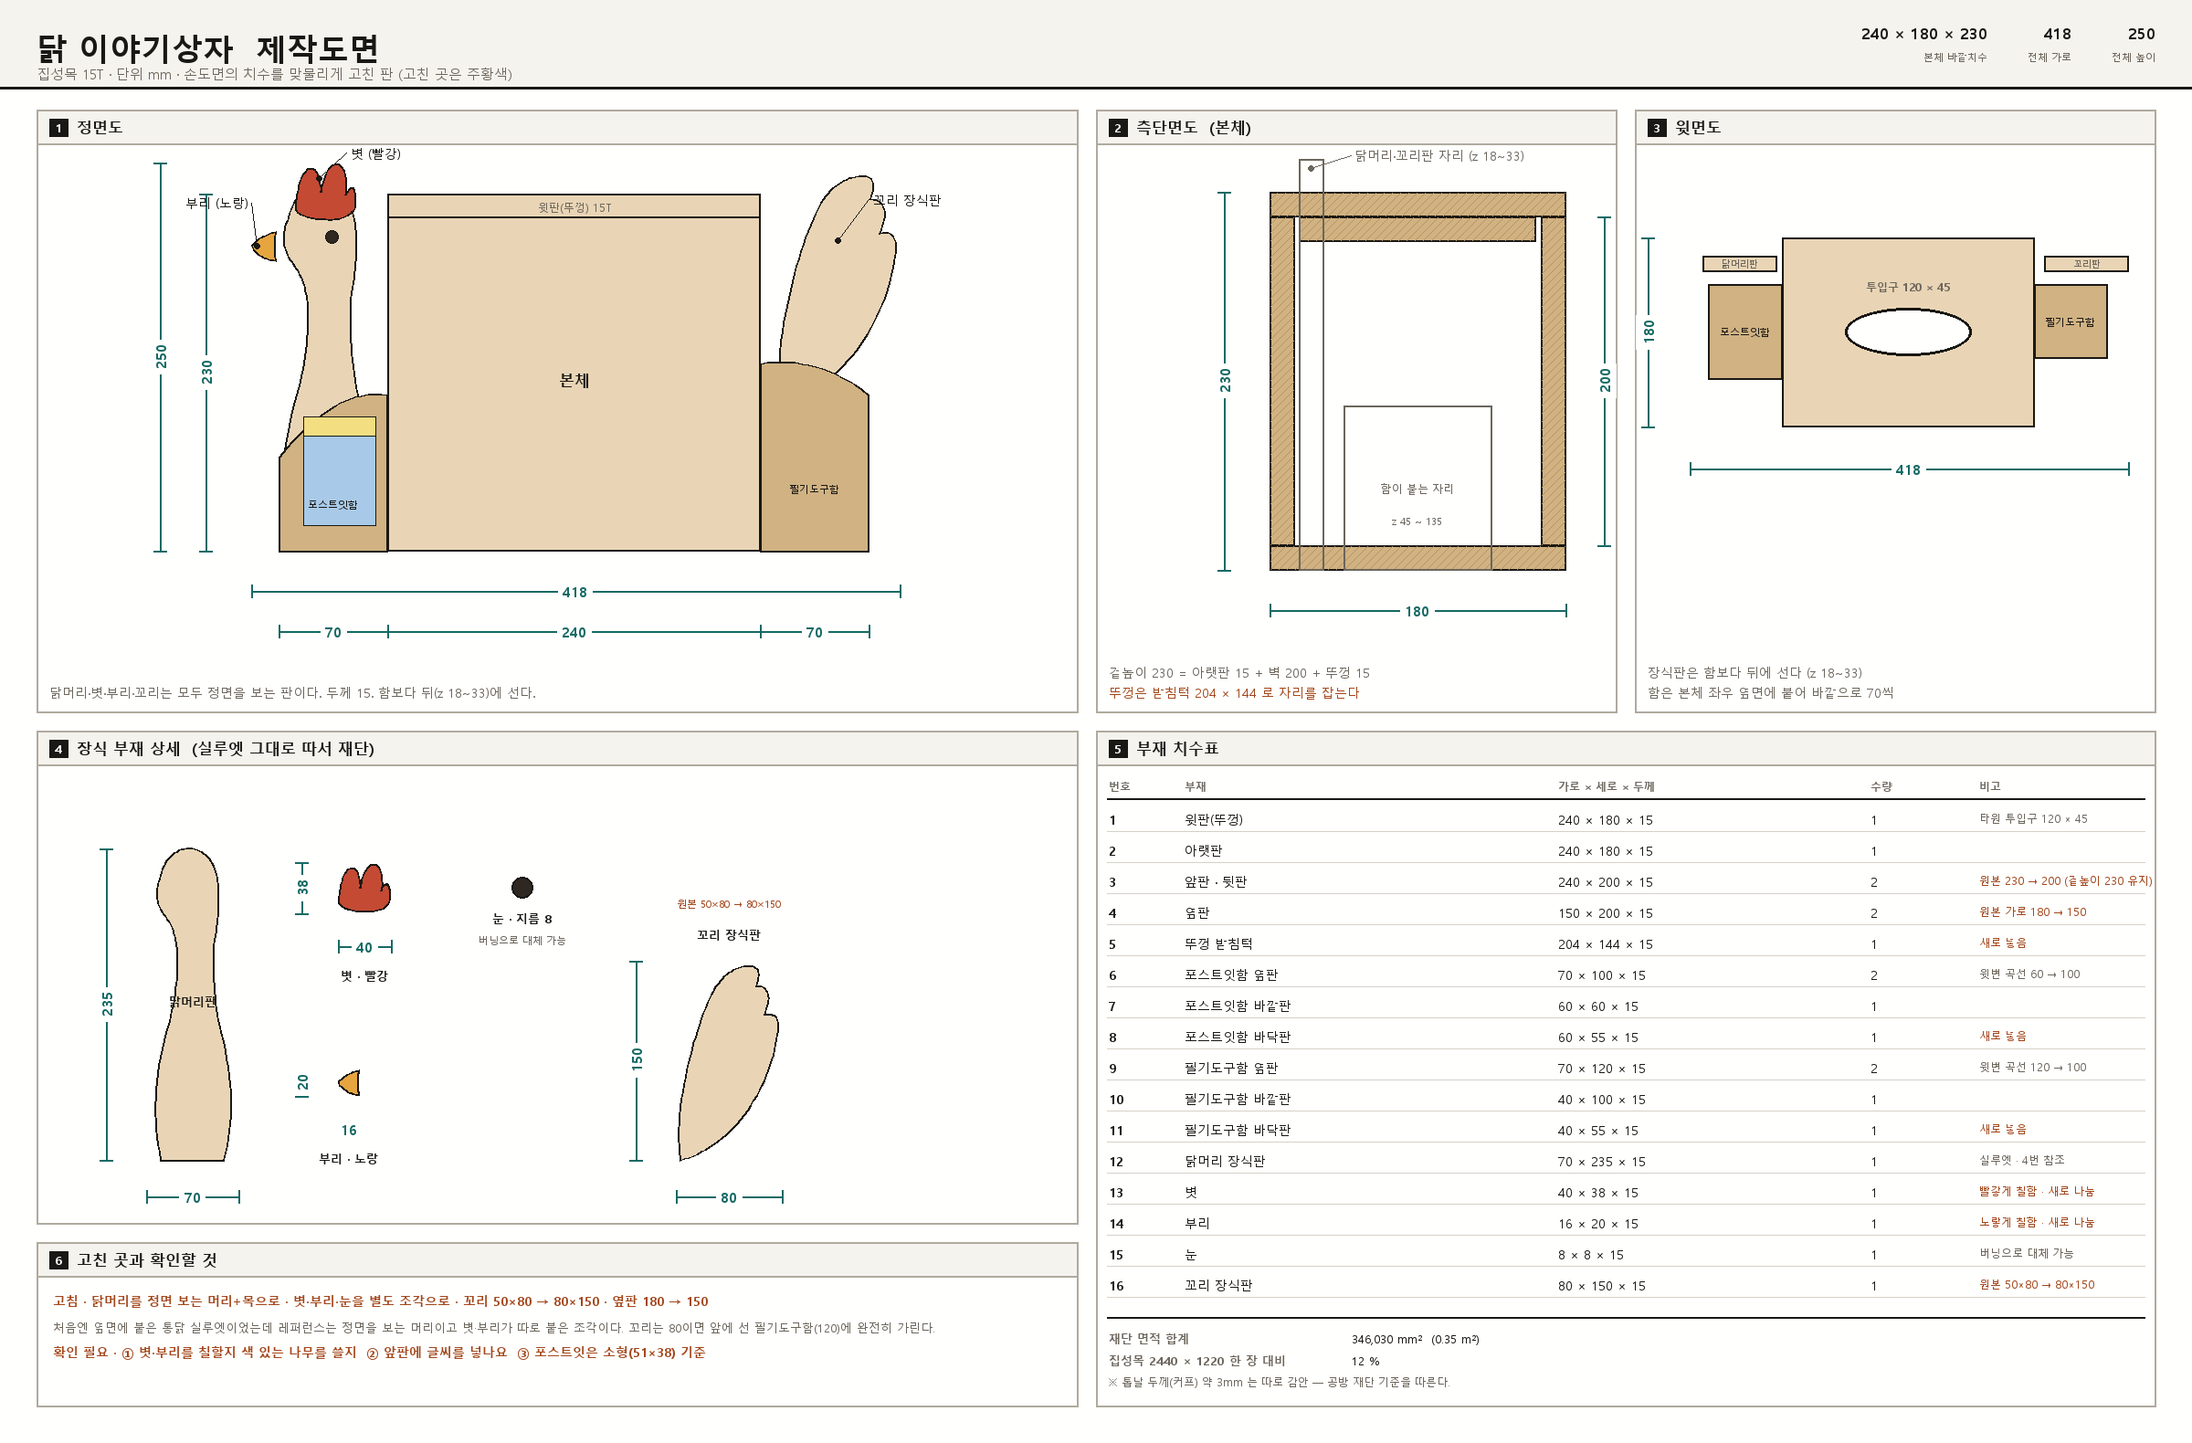
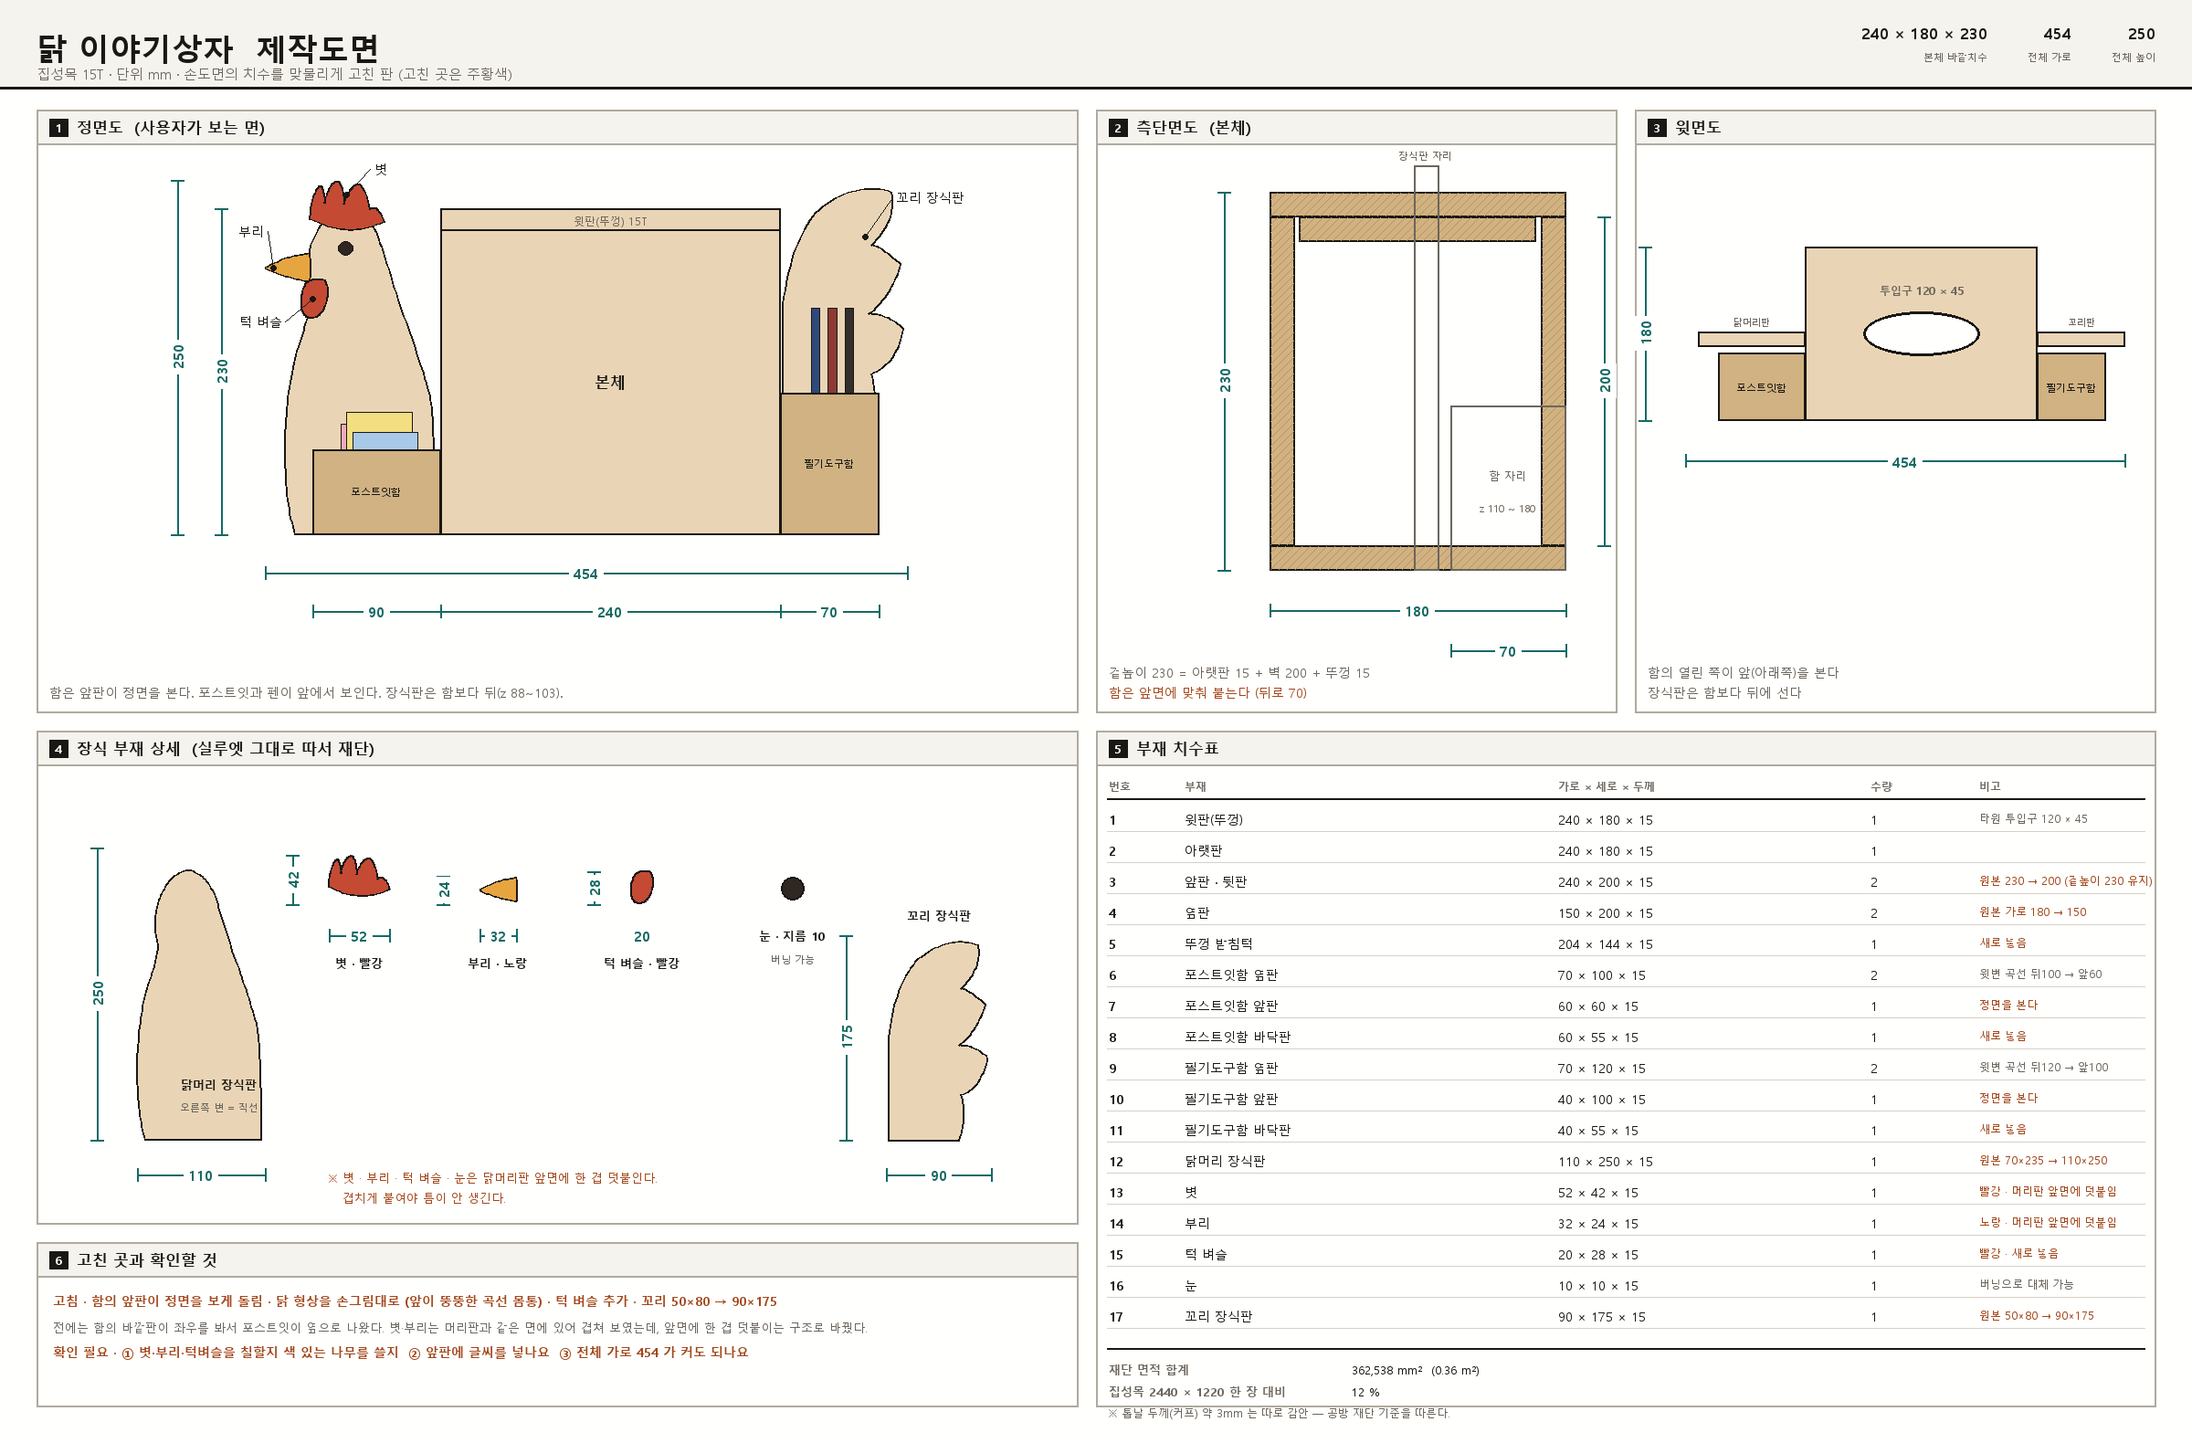
Add files via upload

diff --git a/index.html b/index.html
@@ -352,47 +352,53 @@ function modelB(){
   p({id:6, g:"뚜껑", n:"뚜껑 받침턱", cut:"204 × 144", q:1, x:18, y:H-2*T, z:18, w:204, h:T, d:144,
      chg:"새로 넣음 — 뚜껑이 안 밀리게"});
 
-  /* 포스트잇함 : 본체 왼쪽 옆면에 붙어 바깥으로 70 */
-  p({id:7, g:"포스트잇함", n:"포스트잇함 옆판", cut:"70 × 60~100", q:2, x:-70, y:0, z:45,  w:70, h:100, d:T, curve:[60,100]});
-  p({id:7, g:"포스트잇함", n:"포스트잇함 옆판", cut:"70 × 60~100", q:0, x:-70, y:0, z:120, w:70, h:100, d:T, curve:[60,100]});
-  p({id:8, g:"포스트잇함", n:"포스트잇함 바깥판", cut:"60 × 60", q:1, x:-70, y:0, z:60, w:T,    h:60, d:60});
-  p({id:9, g:"포스트잇함", n:"포스트잇함 바닥판", cut:"60 × 55", q:1, x:-55, y:0, z:60, w:70-T, h:T,  d:60, chg:"새로 넣음"});
-  [[68,80,"note1"],[78,86,"note2"],[88,74,"note3"]].forEach(function(s){
-    p({id:0, g:"포스트잇함", n:"포스트잇", cut:"", q:0, x:-54, y:16, z:s[0], w:46, h:s[1], d:7,
+  /* 포스트잇함 : 본체 왼쪽에 붙되 **바깥판이 정면(사용자 쪽)을 본다**.
+     옆판 두 장이 좌우 벽, 앞판이 앞을 막는다. 깊이 70 은 앞면에 맞춰 z 110~180 */
+  p({id:7, g:"포스트잇함", n:"포스트잇함 옆판", cut:"70 × 60~100", q:2, x:-90, y:0, z:110, w:T, h:100, d:70, curve:[100,60]});
+  p({id:7, g:"포스트잇함", n:"포스트잇함 옆판", cut:"70 × 60~100", q:0, x:-15, y:0, z:110, w:T, h:100, d:70, curve:[100,60]});
+  p({id:8, g:"포스트잇함", n:"포스트잇함 앞판", cut:"60 × 60", q:1, x:-75, y:0, z:D-T, w:60, h:60, d:T,
+     chg:"바깥판 → 앞판. 정면을 보게 돌림"});
+  p({id:9, g:"포스트잇함", n:"포스트잇함 바닥판", cut:"60 × 55", q:1, x:-75, y:0, z:110, w:60, h:T, d:55, chg:"새로 넣음"});
+  [[122,78,"note1"],[136,86,"note2"],[150,72,"note3"]].forEach(function(s){
+    p({id:0, g:"포스트잇함", n:"포스트잇", cut:"", q:0, x:-70, y:16, z:s[0], w:50, h:s[1], d:9,
        r:2, col:COL[s[2]], decor:true, sub:"참고용 · 부재 아님"});
   });
 
-  /* 필기도구함 : 본체 오른쪽 옆면에 붙어 바깥으로 70 */
-  p({id:10,g:"필기도구함", n:"필기도구함 옆판", cut:"70 × 100~120", q:2, x:W, y:0, z:45,  w:70, h:120, d:T, curve:[120,100]});
-  p({id:10,g:"필기도구함", n:"필기도구함 옆판", cut:"70 × 100~120", q:0, x:W, y:0, z:100, w:70, h:120, d:T, curve:[120,100]});
-  p({id:11,g:"필기도구함", n:"필기도구함 바깥판", cut:"40 × 100", q:1, x:W+70-T, y:0, z:60, w:T,    h:100, d:40});
-  p({id:12,g:"필기도구함", n:"필기도구함 바닥판", cut:"40 × 55",  q:1, x:W,      y:0, z:60, w:70-T, h:T,   d:40, chg:"새로 넣음"});
-  [[255,72,"pen1"],[272,66,"pen2"],[288,80,"pen3"]].forEach(function(s){
+  /* 필기도구함 : 오른쪽. 마찬가지로 앞판이 정면을 본다 */
+  p({id:10,g:"필기도구함", n:"필기도구함 옆판", cut:"70 × 100~120", q:2, x:W,     y:0, z:110, w:T, h:120, d:70, curve:[120,100]});
+  p({id:10,g:"필기도구함", n:"필기도구함 옆판", cut:"70 × 100~120", q:0, x:W+55,  y:0, z:110, w:T, h:120, d:70, curve:[120,100]});
+  p({id:11,g:"필기도구함", n:"필기도구함 앞판", cut:"40 × 100", q:1, x:W+T, y:0, z:D-T, w:40, h:100, d:T,
+     chg:"바깥판 → 앞판. 정면을 보게 돌림"});
+  p({id:12,g:"필기도구함", n:"필기도구함 바닥판", cut:"40 × 55", q:1, x:W+T, y:0, z:110, w:40, h:T, d:55, chg:"새로 넣음"});
+  [[262,128,"pen1"],[274,146,"pen2"],[286,134,"pen3"]].forEach(function(s){
     p({id:0, g:"필기도구함", n:"펜", cut:"", q:0, x:s[0], y:15, z:s[1], cyl:[4,150], col:COL[s[2]], decor:true, sub:"참고용 · 부재 아님"});
   });
 
-  /* 닭머리 장식 : 정면을 보는 판. 함 뒤쪽(z 18~33)에 서서 머리가 위로 솟는다 */
-  p({id:13,g:"닭머리 장식", n:"닭머리 장식판", cut:"70 × 235", q:1, x:-75, y:0,   z:18, w:70, h:235, d:T, silh:"head"});
-  p({id:14,g:"닭머리 장식", n:"볏",   cut:"40 × 38", q:1, x:-60, y:212, z:18, w:40, h:38, d:T, silh:"comb", col:COL.comb, chg:"새로 나눔 — 빨갛게 칠함"});
-  p({id:15,g:"닭머리 장식", n:"부리", cut:"16 × 20", q:1, x:-88, y:186, z:18, w:16, h:20, d:T, silh:"beak", col:COL.beak, chg:"새로 나눔"});
-  p({id:16,g:"닭머리 장식", n:"눈",   cut:"지름 8",  q:1, x:-40, y:198, z:16, w:8,  h:8,  d:T+4, silh:"eye", col:COL.eye, sub:"버닝으로 대체 가능"});
+  /* 닭머리 장식 : 정면을 보는 판. 함보다 뒤(z 88~103)에 서고 볏·부리·벼슬은 그 앞면에 덧붙인다 */
+  p({id:13,g:"닭머리 장식", n:"닭머리 장식판", cut:"110 × 250", q:1, x:-110, y:0, z:88, w:110, h:250, d:T,
+     silh:"head", chg:"70×235 → 110×250 · 앞이 뚱뚱한 곡선 몸통으로"});
+  p({id:14,g:"닭머리 장식", n:"볏",       cut:"52 × 42", q:1, x:-92,  y:208, z:103, w:52, h:42, d:T, silh:"comb",   col:COL.comb, sub:"머리 앞면에 덧붙임"});
+  p({id:15,g:"닭머리 장식", n:"부리",     cut:"32 × 24", q:1, x:-124, y:176, z:103, w:32, h:24, d:T, silh:"beak",   col:COL.beak, sub:"머리 앞면에 덧붙임"});
+  p({id:16,g:"닭머리 장식", n:"턱 벼슬",  cut:"20 × 28", q:1, x:-99, y:152, z:103, w:20, h:28, d:T, silh:"wattle", col:COL.comb, chg:"새로 넣음"});
+  p({id:17,g:"닭머리 장식", n:"눈",       cut:"지름 10", q:1, x:-72, y:197, z:118, w:10, h:10, d:8, silh:"eye", col:COL.eye, sub:"버닝으로 대체 가능"});
 
   /* 꼬리 장식 */
-  p({id:17,g:"꼬리 장식", n:"꼬리 장식판", cut:"80 × 150", q:1, x:250, y:95, z:18, w:80, h:150, d:T, silh:"tail",
-     chg:"50×80 → 80×150 · 위치도 위로"});
+  p({id:18,g:"꼬리 장식", n:"꼬리 장식판", cut:"90 × 175", q:1, x:W, y:75, z:88, w:90, h:175, d:T, silh:"tail",
+     chg:"50×80 → 90×175 · 손그림 모양으로"});
 
   return { key:"B", title:"닭 이야기상자", parts:P, W:W, H:H, D:D,
     dims:[["본체 가로",W],["본체 높이",H],["본체 깊이",D]],
-    span:[-88, 330], top:250,
+    span:[-124, 330], top:250,
     groups:{ "프레임":[0,0,0,0], "뚜껑":[0,1,0,125], "포스트잇함":[-1,0,0,135],
              "필기도구함":[1,0,0,135], "닭머리 장식":[-0.5,0.15,-1,140], "꼬리 장식":[0.5,0.15,-1,140] },
     fixes:[
-      ["고침","<b>닭머리를 정면 보게 다시 만들었습니다.</b> 처음엔 옆면에 붙은 통닭 실루엣이었는데, 레퍼런스는 <b>정면을 보는 머리+목</b>이고 볏·부리가 따로 붙은 조각입니다."],
-      ["고침","<b>볏·부리·눈을 별도 조각으로 나눴습니다.</b> 볏은 빨강, 부리는 노랑. 레퍼런스와 같은 방식입니다."],
-      ["고침","<b>꼬리 50×80 → 80×150, 붙이는 높이도 위로.</b> 80으로는 앞에 선 필기도구함(120)에 완전히 가려서 안 보입니다."],
-      ["고침","<b>옆판 가로 180 → 150.</b> 앞·뒷판 240과 옆판 180으로 네 벽을 짜면 겉이 240×210이 되는데 윗·아랫판은 240×180이었습니다."],
-      ["고침","<b>뚜껑 받침턱과 함 바닥판 2장을 새로 넣었습니다.</b> 없으면 뚜껑이 밀리고 함 바닥이 뚫립니다."],
-      ["유지","본체 <span class='num'>240 × 180 × 230</span>, 타원 투입구 <span class='num'>120 × 45</span>, 함 치수, 닭머리 높이 <span class='num'>250</span> 은 손도면 그대로입니다."]
+      ["고침","<b>함의 앞판이 정면(사용자 쪽)을 보게 돌렸습니다.</b> 전에는 바깥판이 좌우를 보고 있었습니다. 이제 포스트잇과 펜이 앞에서 보입니다."],
+      ["고침","<b>닭 형상을 손그림대로 다시 만들었습니다.</b> 앞(왼쪽)이 뚱뚱한 곡선 몸통, 오른쪽 변은 상자에 닿는 직선."],
+      ["고침","<b>턱 아래 벼슬(육수)을 넣었습니다.</b> 빠져 있었습니다."],
+      ["고침","<b>볏·부리가 머리와 겹쳐 보이던 것</b>을 고쳤습니다. 이제 머리판 <b>앞면에 한 겹 덧붙는</b> 구조라 겹치지 않고 얹힙니다."],
+      ["고침","<b>꼬리를 손그림 모양(깃 세 갈래)으로</b>, 50×80 → 90×175."],
+      ["고침","<b>옆판 가로 180 → 150</b> · <b>뚜껑 받침턱과 함 바닥판</b>을 새로 넣었습니다."],
+      ["유지","본체 <span class='num'>240 × 180 × 230</span>, 타원 투입구 <span class='num'>120 × 45</span>, 함 옆판 <span class='num'>70</span>·앞판 <span class='num'>60/40</span>, 닭 높이 <span class='num'>250</span> 은 손도면 그대로입니다."]
     ],
     asks:"<p class='note'><b>포스트잇은 소형(51×38) 기준</b>입니다. 함 안쪽이 60×55라 일반 포스트잇(76×76)은 안 들어갑니다.</p>"+
          "<p class='note'><b>앞판에 글씨나 표시를 넣나요?</b> 레퍼런스는 앞판이 '이야기판'이었습니다.</p>"+
@@ -434,63 +440,58 @@ function panelGeom(w,h,d,r){
   return g;
 }
 
-/* 곡선 실루엣. 전부 정면(z축 두께)을 본다 */
+/* 곡선 실루엣. 전부 정면(z축 두께)을 본다.
+   비율(0~1)로 적어두고 실제 치수에 맞춰 늘린다 — 손그림을 그대로 옮긴 것 */
+function shapeOf(pts, w, h){
+  var s=new THREE.Shape(), X=function(u){return u*w}, Y=function(v){return v*h};
+  s.moveTo(X(pts[0][0]),Y(pts[0][1]));
+  for(var i=1;i<pts.length;i++){
+    var p=pts[i];
+    if(p.length===2) s.lineTo(X(p[0]),Y(p[1]));
+    else s.quadraticCurveTo(X(p[0]),Y(p[1]),X(p[2]),Y(p[3]));
+  }
+  return s;
+}
+var PT = {
+  /* 앞(왼쪽)이 뚱뚱한 몸통 + 목 + 머리. 오른쪽 변은 상자에 닿는 직선 */
+  head:[[0.96,0.00],[0.07,0.00],
+        [0.00,0.09, 0.005,0.27],  [0.02,0.43, 0.09,0.53],
+        [0.15,0.60, 0.17,0.665],  [0.135,0.715, 0.145,0.755],
+        [0.155,0.815,0.215,0.858],[0.30,0.928, 0.42,0.922],
+        [0.545,0.906,0.605,0.832],[0.665,0.752,0.725,0.662],
+        [0.845,0.52, 0.925,0.40], [0.965,0.33, 0.96,0.00]],
+  /* 볏 — 아랫변이 오목해서 머리 위에 얹힌다 */
+  comb:[[0.00,0.34],
+        [0.02,0.74, 0.12,0.90],[0.17,0.97, 0.20,0.62],
+        [0.26,0.96, 0.37,0.99],[0.44,0.95, 0.46,0.60],
+        [0.54,0.92, 0.66,0.94],[0.75,0.88, 0.80,0.52],
+        [0.92,0.62, 1.00,0.30],[0.55,0.00, 0.00,0.34]],
+  /* 부리 — 오른쪽이 머리에 붙고 왼쪽으로 뾰족 */
+  beak:[[1.00,0.92],
+        [0.48,0.86, 0.00,0.50],[0.42,0.24, 1.00,0.10],
+        [1.03,0.50, 1.00,0.92]],
+  /* 턱 아래 벼슬(육수) */
+  wattle:[[0.85,1.00],
+        [1.05,0.72, 0.90,0.42],[0.80,0.10, 0.45,0.02],
+        [0.12,0.00, 0.05,0.30],[0.00,0.62, 0.22,0.92],
+        [0.45,1.06, 0.85,1.00]],
+  /* 꼬리 — 아랫변과 왼쪽 변은 직선, 오른쪽에 깃 세 갈래 */
+  tail:[[0.02,0.00],[0.70,0.00],
+        [0.78,0.10, 0.72,0.22],[0.92,0.26, 0.97,0.40],
+        [0.84,0.46, 0.70,0.46],[0.88,0.54, 0.95,0.66],
+        [0.82,0.72, 0.72,0.74],[0.92,0.84, 0.88,0.95],
+        [0.60,1.00, 0.30,0.88],[0.08,0.76, 0.02,0.50],
+        [0.02,0.00]]
+};
 var SILH = {
-  head:function(w,h){                       // 머리 + 목 + 가슴. 부리쪽이 왼쪽
-    var X=function(u){return u/70*w}, Y=function(v){return v/235*h};
-    var s=new THREE.Shape();
-    s.moveTo(X(11),Y(0));
-    s.lineTo(X(59),Y(0));
-    s.quadraticCurveTo(X(71),Y(42),  X(57),Y(96));
-    s.quadraticCurveTo(X(49),Y(132), X(52),Y(166));
-    s.quadraticCurveTo(X(57),Y(192), X(54),Y(213));
-    s.quadraticCurveTo(X(50),Y(233), X(33),Y(235));
-    s.quadraticCurveTo(X(15),Y(234), X(10),Y(212));
-    s.quadraticCurveTo(X(4),Y(198),  X(13),Y(186));
-    s.quadraticCurveTo(X(21),Y(176), X(23),Y(160));
-    s.quadraticCurveTo(X(25),Y(130), X(15),Y(96));
-    s.quadraticCurveTo(X(1),Y(46),   X(11),Y(0));
-    return s;
-  },
-  comb:function(w,h){                       // 볏 세 갈래
-    var X=function(u){return u/40*w}, Y=function(v){return v/38*h};
-    var s=new THREE.Shape();
-    s.moveTo(X(1),Y(7));
-    s.quadraticCurveTo(X(2),Y(29),  X(9),Y(34));
-    s.quadraticCurveTo(X(15),Y(37), X(17),Y(19));
-    s.quadraticCurveTo(X(21),Y(38), X(28),Y(37));
-    s.quadraticCurveTo(X(34),Y(34), X(33),Y(17));
-    s.quadraticCurveTo(X(39),Y(30), X(39),Y(10));
-    s.quadraticCurveTo(X(36),Y(0),  X(20),Y(1));
-    s.quadraticCurveTo(X(6),Y(1),   X(1),Y(7));
-    return s;
-  },
-  beak:function(w,h){                       // 부리
-    var X=function(u){return u/16*w}, Y=function(v){return v/20*h};
-    var s=new THREE.Shape();
-    s.moveTo(X(16),Y(19));
-    s.quadraticCurveTo(X(5),Y(16), X(0),Y(10));
-    s.quadraticCurveTo(X(5),Y(2),  X(16),Y(1));
-    s.quadraticCurveTo(X(15),Y(10),X(16),Y(19));
-    return s;
-  },
-  eye:function(w,h){
+  head:  function(w,h){ return shapeOf(PT.head,w,h); },
+  comb:  function(w,h){ return shapeOf(PT.comb,w,h); },
+  beak:  function(w,h){ return shapeOf(PT.beak,w,h); },
+  wattle:function(w,h){ return shapeOf(PT.wattle,w,h); },
+  tail:  function(w,h){ return shapeOf(PT.tail,w,h); },
+  eye:   function(w,h){
     var s=new THREE.Shape();
     s.absellipse(w/2,h/2,w/2,h/2,0,Math.PI*2,false,0);
-    return s;
-  },
-  tail:function(w,h){                       // 꼬리 깃 세 갈래
-    var X=function(u){return u/80*w}, Y=function(v){return v/150*h};
-    var s=new THREE.Shape();
-    s.moveTo(X(3),Y(0));
-    s.quadraticCurveTo(X(31),Y(7),  X(52),Y(34));
-    s.quadraticCurveTo(X(73),Y(63), X(77),Y(95));
-    s.quadraticCurveTo(X(80),Y(112),X(67),Y(109));
-    s.quadraticCurveTo(X(76),Y(130),X(61),Y(131));
-    s.quadraticCurveTo(X(68),Y(150),X(49),Y(145));
-    s.quadraticCurveTo(X(33),Y(141),X(24),Y(119));
-    s.quadraticCurveTo(X(10),Y(87), X(3),Y(40));
-    s.quadraticCurveTo(X(1),Y(18),  X(3),Y(0));
     return s;
   }
 };
@@ -504,15 +505,19 @@ function geomFor(p){
   if(p.silh){
     g=ext(SILH[p.silh](p.w,p.h), p.d, 24); g.translate(0,0,BEV); return g;
   }
-  if(p.curve){                              // 윗변이 한쪽으로 올라가는 함 옆판
-    var h0=p.curve[0], h1=p.curve[1], L=p.w, top=Math.max(h0,h1);
+  if(p.curve){        // 윗변이 한쪽으로 올라가는 함 옆판. 얇은 축을 찾아 눕힌다
+    var h0=p.curve[0], h1=p.curve[1];
+    var sideways = p.w <= p.d;              // true면 판이 좌우를 본다(두께가 x)
+    var L = sideways ? p.d : p.w, t = sideways ? p.w : p.d;
+    var top=Math.max(h0,h1);
     var s=new THREE.Shape();
     s.moveTo(2,0); s.lineTo(L-2,0);
-    s.quadraticCurveTo(L,0,L,Math.min(h1,h1-2));
+    s.quadraticCurveTo(L,0,L,h1-2);
     s.quadraticCurveTo(L*0.52, top*1.05, 0, h0);
     s.quadraticCurveTo(0,0,2,0);
-    g=ext(s,p.d,20); g.translate(0,0,BEV);
-    g.rotateY(0); return g;
+    g=ext(s,t,20); g.translate(0,0,BEV);
+    if(sideways){ g.rotateY(-Math.PI/2); g.translate(t,0,0); }
+    return g;
   }
   if(p.holes || p.ellipse){
     var a=p.w, b=p.holes?p.h:p.d;
